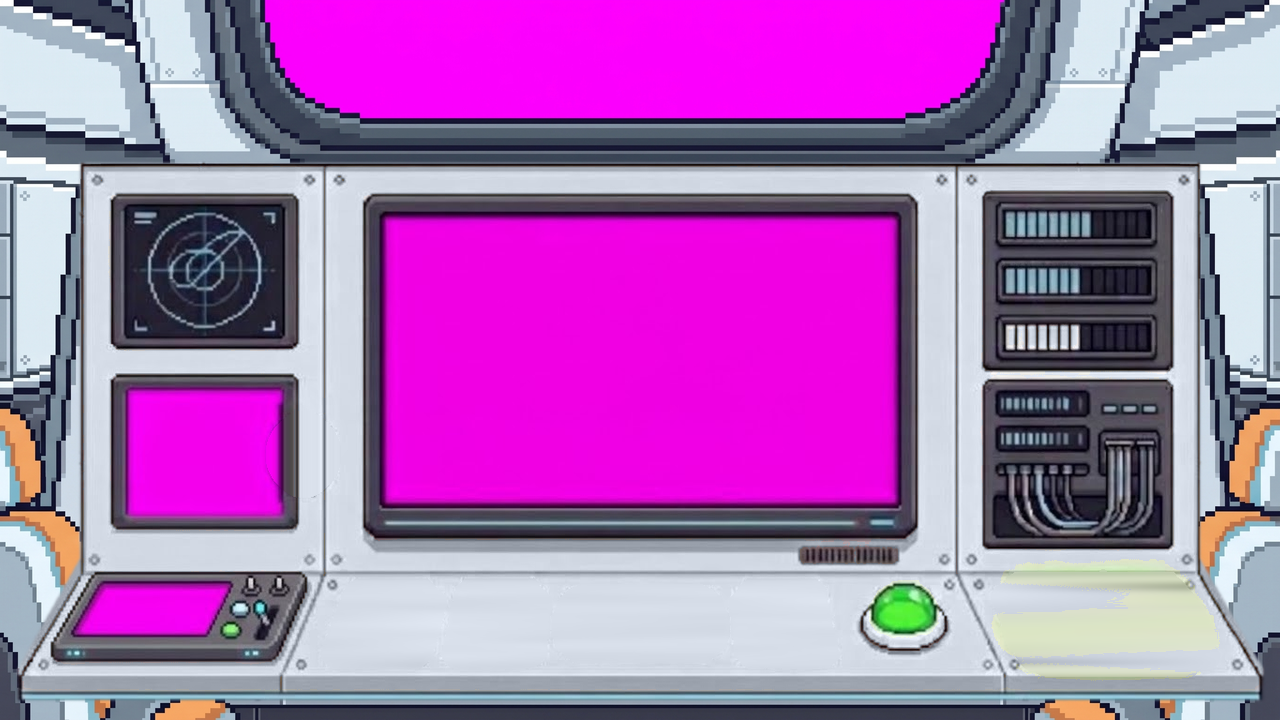
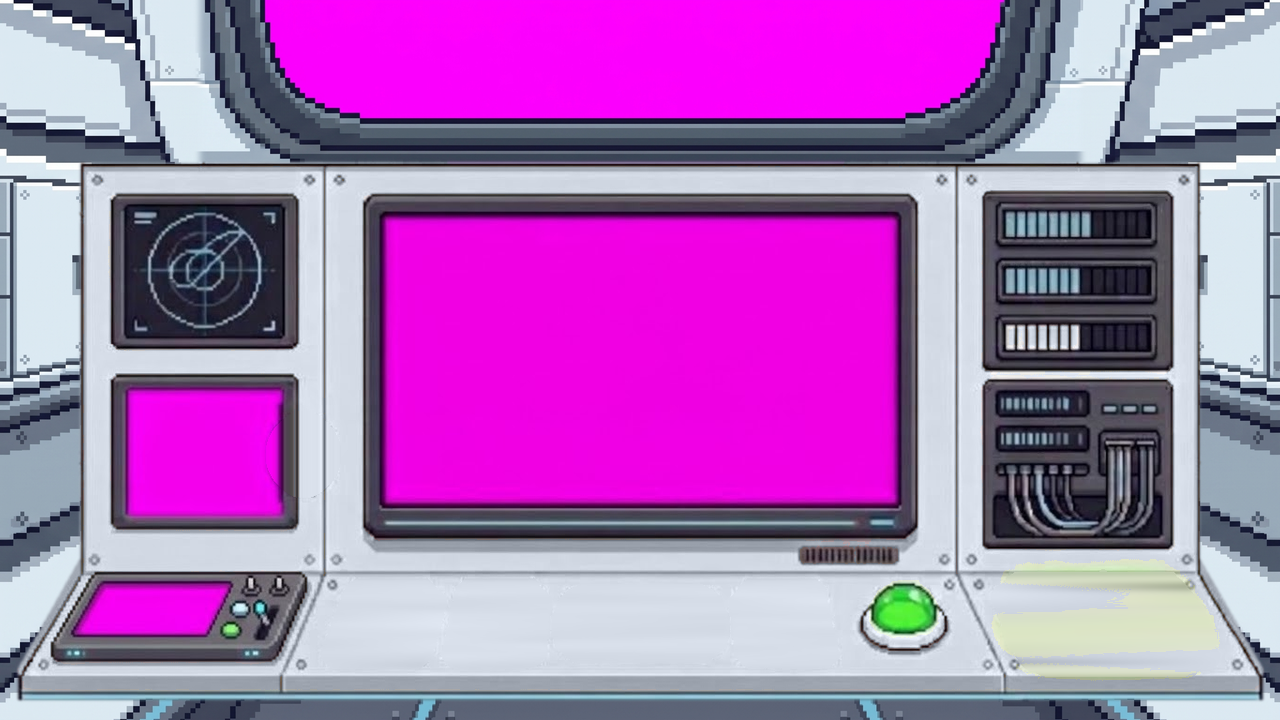
Consola sin asientos a los costados; ATERRIZAR grabado en perspectiva; etiqueta de foto sobre la foto

diff --git a/src/scenes/monitor/landLabel.ts b/src/scenes/monitor/landLabel.ts
@@ -1,0 +1,77 @@
+import type Phaser from 'phaser';
+import { t } from '../../i18n';
+import { FONT_FAMILY } from '../../ui/layout';
+import { cssColor, PALETTE } from '../../ui/palette';
+
+/**
+ * Spec 19 — "ATERRIZAR ▼" engraved on the face of the LAND button. The face is seen at an
+ * angle (a slanted, flattened shape), so the word is drawn on a canvas with that same slant
+ * and squash, centered on the face. Engraved = a dark mark with a thin light edge under it.
+ */
+const TEXTURE_KEY = 'land-button-label';
+/** Drawn 4 times bigger and shown at 1/4, so the slanted letters stay sharp. */
+const RESOLUTION = 4;
+const SIZE = { width: 100, height: 34 } as const;
+const FONT_SIZE_PX = 8;
+/** How the button face is seen: its sides lean right going down, and it looks flattened. */
+const FACE_SLANT = 0.38;
+const FACE_SQUASH = 0.8;
+const WORD_Y = -3;
+const ARROW = { top: 6, halfWidth: 8, height: 7 } as const;
+const ENGRAVE = { dark: 0.8, light: 0.5 } as const;
+
+export function addLandLabel(scene: Phaser.Scene, x: number, y: number): Phaser.GameObjects.Image {
+  if (scene.textures.exists(TEXTURE_KEY)) scene.textures.remove(TEXTURE_KEY);
+  const texture = scene.textures.createCanvas(
+    TEXTURE_KEY,
+    SIZE.width * RESOLUTION,
+    SIZE.height * RESOLUTION,
+  );
+  if (!texture) throw new Error('Could not create the LAND button label canvas');
+  const font = `${FONT_SIZE_PX}px ${FONT_FAMILY}`;
+  const draw = (): void => drawEngraved(texture, font);
+  draw();
+  // The pixel font may still be loading the first time: draw again once it is ready.
+  if (!document.fonts.check(font)) void document.fonts.load(font).then(draw);
+  return scene.add.image(x, y, TEXTURE_KEY).setScale(1 / RESOLUTION);
+}
+
+function drawEngraved(texture: Phaser.Textures.CanvasTexture, font: string): void {
+  const context = texture.getContext();
+  context.setTransform(1, 0, 0, 1, 0, 0);
+  context.clearRect(0, 0, texture.width, texture.height);
+  const scale = RESOLUTION;
+  context.setTransform(
+    scale,
+    0,
+    FACE_SLANT * scale,
+    FACE_SQUASH * scale,
+    (SIZE.width / 2) * scale,
+    (SIZE.height / 2) * scale,
+  );
+  context.font = font;
+  context.textAlign = 'center';
+  context.textBaseline = 'middle';
+  // The light edge first, one pixel lower: the dark mark on top looks carved into the face.
+  drawMark(context, 1, cssColor(PALETTE.white), ENGRAVE.light);
+  drawMark(context, 0, cssColor(PALETTE.night), ENGRAVE.dark);
+  texture.refresh();
+}
+
+function drawMark(
+  context: CanvasRenderingContext2D,
+  offsetY: number,
+  color: string,
+  alpha: number,
+): void {
+  context.globalAlpha = alpha;
+  context.fillStyle = color;
+  context.fillText(t('monitor.landButton'), 0, WORD_Y + offsetY);
+  context.beginPath();
+  context.moveTo(-ARROW.halfWidth, ARROW.top + offsetY);
+  context.lineTo(ARROW.halfWidth, ARROW.top + offsetY);
+  context.lineTo(0, ARROW.top + ARROW.height + offsetY);
+  context.closePath();
+  context.fill();
+  context.globalAlpha = 1;
+}

diff --git a/src/scenes/monitor/landHint.ts b/src/scenes/monitor/landHint.ts
@@ -1,15 +1,13 @@
 import Phaser from 'phaser';
 import { INTRO_BALANCE } from '../../config/balance';
-import { t } from '../../i18n';
-import { FONT_SIZE } from '../../ui/layout';
-import { cssColor, PALETTE } from '../../ui/palette';
+import { PALETTE } from '../../ui/palette';
 import { SPRITE_SCALE } from '../../ui/sprites';
-import { addText } from '../../ui/text';
+import { addLandLabel } from './landLabel';
 
 /**
- * Spec 19 — The big green LAND button says "IR" (GO) on its face, and while the ship can land a
- * soft yellow light around it breathes. When landing is locked the light is off and the word is
- * gray (pressing it still explains why on the screen). The word sinks with the button frames.
+ * Spec 19 — The big green LAND button has its name engraved on its face, and while the ship can
+ * land a soft yellow light around it breathes. When landing is locked the light is off (pressing
+ * it still explains why on the screen). The engraving sinks with the button frames.
  */
 export interface LandHint {
   setReady: (ready: boolean) => void;
@@ -17,23 +15,14 @@ export interface LandHint {
 
 const GLOW = { color: PALETTE.sun, strength: 2, quality: 0.1, distance: 8 } as const;
 /** Center of the button face in the art (1280×720 kit pixels, before SPRITE_SCALE). */
-const FACE_CENTER = { x: 118, y: 39 } as const;
+const FACE_CENTER = { x: 111, y: 39 } as const;
 /** How far the face sinks in each press frame, in the same art pixels. */
 const FACE_SINK: Record<string, number> = { medio: 5, apretado: 9 };
-const OUTLINE_PX = 4;
 
 export function addLandHint(scene: Phaser.Scene, button: Phaser.GameObjects.Image): LandHint {
   const restY = button.y + FACE_CENTER.y * SPRITE_SCALE;
-  const word = addText(
-    scene,
-    button.x + FACE_CENTER.x * SPRITE_SCALE,
-    restY,
-    t('monitor.landButton'),
-    {
-      size: FONT_SIZE.large,
-    },
-  );
-  word.setStroke(cssColor(PALETTE.night), OUTLINE_PX).setDepth(button.depth + 1);
+  const word = addLandLabel(scene, button.x + FACE_CENTER.x * SPRITE_SCALE, restY);
+  word.setDepth(button.depth + 1);
   const followPress = () => word.setY(restY + sinkOf(button.texture.key) * SPRITE_SCALE);
   scene.events.on(Phaser.Scenes.Events.UPDATE, followPress);
   scene.events.once(Phaser.Scenes.Events.SHUTDOWN, () =>
@@ -42,7 +31,6 @@ export function addLandHint(scene: Phaser.Scene, button: Phaser.GameObjects.Imag
   const glow = addBreathingGlow(scene, button);
   return {
     setReady: (ready) => {
-      word.setColor(cssColor(ready ? PALETTE.white : PALETTE.metalLight));
       if (glow) glow.active = ready;
     },
   };

diff --git a/src/scenes/monitor/monitorScreens.ts b/src/scenes/monitor/monitorScreens.ts
@@ -52,6 +52,7 @@ const PHOTO: Rect = {
 };
 const GOAL_LINE_HEIGHT = 15;
 const GOAL_ICON_SIZE = 10;
+const PHOTO_TAG = { inset: 4, padding: 4, height: 12, alpha: 0.75 } as const;
 /** Goals are long lines: a bit smaller (and sharper) so each one fits in one line. */
 const GOAL_TEXT = { scale: 0.8, resolution: 4 } as const;
 
@@ -78,20 +79,26 @@ export function galleryLength(locationId: string): number {
   return locationGallery(locationId).length;
 }
 
-function drawHeading(scene: Phaser.Scene, state: MonitorState, rightText?: string): Parts {
+function drawHeading(scene: Phaser.Scene, state: MonitorState): Parts {
   const counter = t('monitor.destination', { current: state.order, total: state.total });
   const name = locationText(state.location.id, 'name');
-  const parts: Parts = [
+  return [
     addGlowText(scene, BIG.x + PAD, BIG.y + 9, counter, { color: PALETTE.metal }).setOrigin(0, 0.5),
     addGlowText(scene, BIG.x + PAD, BIG.y + 23, name, { size: FONT_SIZE.medium }).setOrigin(0, 0.5),
   ];
-  if (rightText) {
-    const right = addGlowText(scene, BIG.x + BIG.width - PAD, BIG.y + 9, rightText, {
-      color: TECH_GLOW,
-    });
-    parts.push(right.setOrigin(1, 0.5));
-  }
-  return parts;
+}
+
+/** "REAL NASA PHOTO 1/3" on a dark tag in the photo's top corner: it never meets the heading. */
+function drawPhotoTag(scene: Phaser.Scene, label: string): Parts {
+  const right = PHOTO.x + PHOTO.width - PHOTO_TAG.inset;
+  const y = PHOTO.y + PHOTO_TAG.inset + PHOTO_TAG.height / 2;
+  const text = addGlowText(scene, right - PHOTO_TAG.padding, y, label, { color: TECH_GLOW });
+  text.setOrigin(1, 0.5);
+  const width = text.width + PHOTO_TAG.padding * 2;
+  const tag = scene.add.rectangle(right - width / 2, y, width, PHOTO_TAG.height, PALETTE.night);
+  // The tag is sized from the text, so it is made after it: put the text back on top.
+  scene.children.bringToTop(text);
+  return [tag.setAlpha(PHOTO_TAG.alpha), text];
 }
 
 function drawPhotoView(scene: Phaser.Scene, state: MonitorState): Parts {
@@ -103,9 +110,10 @@ function drawPhotoView(scene: Phaser.Scene, state: MonitorState): Parts {
   const corners = scene.add.graphics();
   drawVisorCorners(corners, PHOTO);
   return [
-    ...drawHeading(scene, state, label),
+    ...drawHeading(scene, state),
     image,
     ...addPhotoCredit(scene, PHOTO, photo.credit),
+    ...drawPhotoTag(scene, label),
     corners,
   ];
 }

diff --git a/docs/DECISIONS.md b/docs/DECISIONS.md
@@ -22,7 +22,7 @@ Formato:
 
 ## 2026-11-15 — En la cabina, los destinos se eligen en el tablero del centro (spec 19)
 - Quién: C (Emilia), con Claude
-- Qué se decidió: el monitor del costado derecho de la cabina se reemplazó por un rincón con trajes colgados, casco, botas y mochila (editado con Gemini solo en esa zona; el resto del dibujo queda igual). Ahora se toca la pantalla del centro del tablero, debajo de la ventana, para abrir la consola de destinos; esa pantalla muestra el mini mapa de Marte y, durante el aterrizaje, la altura. La consola de destinos de cerca se adapta a ese lugar: se ve desde el asiento, con la parte de abajo del parabrisas arriba (con la misma foto real de Marte de la ventana) y los asientos asomando a los costados, en vez del marco de mueble encastrado en la pared; el beige pasa a los grises claros del tablero. El entorno lo dibujó Gemini y el panel (pantallas y huecos de los botones) quedó idéntico, así no cambian las posiciones. El botón de aterrizar dice **IR** (texto traducible, `monitor.landButton`; en inglés GO) en vez del ícono del módulo de aterrizaje, que no se entendía, y cuando se puede aterrizar tiene una luz amarilla suave que late. En la cabina flotan los objetos de `bocetos/cabina/flotantes/` (birome, bolsa de agua, llave, snack; el cohetito se sacó porque confundía) en gravedad cero: deriva lenta en línea recta, giro lento y rebote suave en los bordes.
+- Qué se decidió: el monitor del costado derecho de la cabina se reemplazó por un rincón con trajes colgados, casco, botas y mochila (editado con Gemini solo en esa zona; el resto del dibujo queda igual). Ahora se toca la pantalla del centro del tablero, debajo de la ventana, para abrir la consola de destinos; esa pantalla muestra el mini mapa de Marte y, durante el aterrizaje, la altura. La consola de destinos de cerca se adapta a ese lugar: se ve desde el asiento, con la parte de abajo del parabrisas arriba (con la misma foto real de Marte de la ventana) y la pared de la cabina a los costados, en vez del marco de mueble encastrado en la pared; el beige pasa a los grises claros del tablero. El entorno lo dibujó Gemini y el panel (pantallas y huecos de los botones) quedó idéntico, así no cambian las posiciones. El botón de aterrizar lleva **ATERRIZAR ▼ grabado** en su cara, en la misma perspectiva que el botón (texto traducible, `monitor.landButton`; en inglés LAND), en vez del ícono del módulo de aterrizaje, que no se entendía; cuando se puede aterrizar tiene una luz amarilla suave que late. El contador "FOTO REAL NASA 1/3" pasa a una etiqueta sobre la foto, porque en inglés se pisaba con "DESTINATION 1/5". En la cabina flotan los objetos de `bocetos/cabina/flotantes/` (birome, bolsa de agua, llave, snack; el cohetito se sacó porque confundía) en gravedad cero: deriva lenta en línea recta, giro lento y rebote suave en los bordes.
 - Por qué: al probarlo, lo intuitivo era tocar la pantalla del centro para elegir misión.
 - A quién afecta: solo el spec 19 (`cabina-fondo.png`, `layout.ts`: `CABIN_DASHBOARD_*` reemplaza a `CABIN_MONITOR_*`, que solo usaba el spec 19; textos `cabin.manualDone` y `cabin.again`; `consola-fondo.png`; `botones/aterrizar*.png` sin ícono; clave nueva `monitor.landButton`; valores nuevos en `INTRO_BALANCE`).
 - ¿Avisado al equipo?: no todavía (va en el PR #33).
